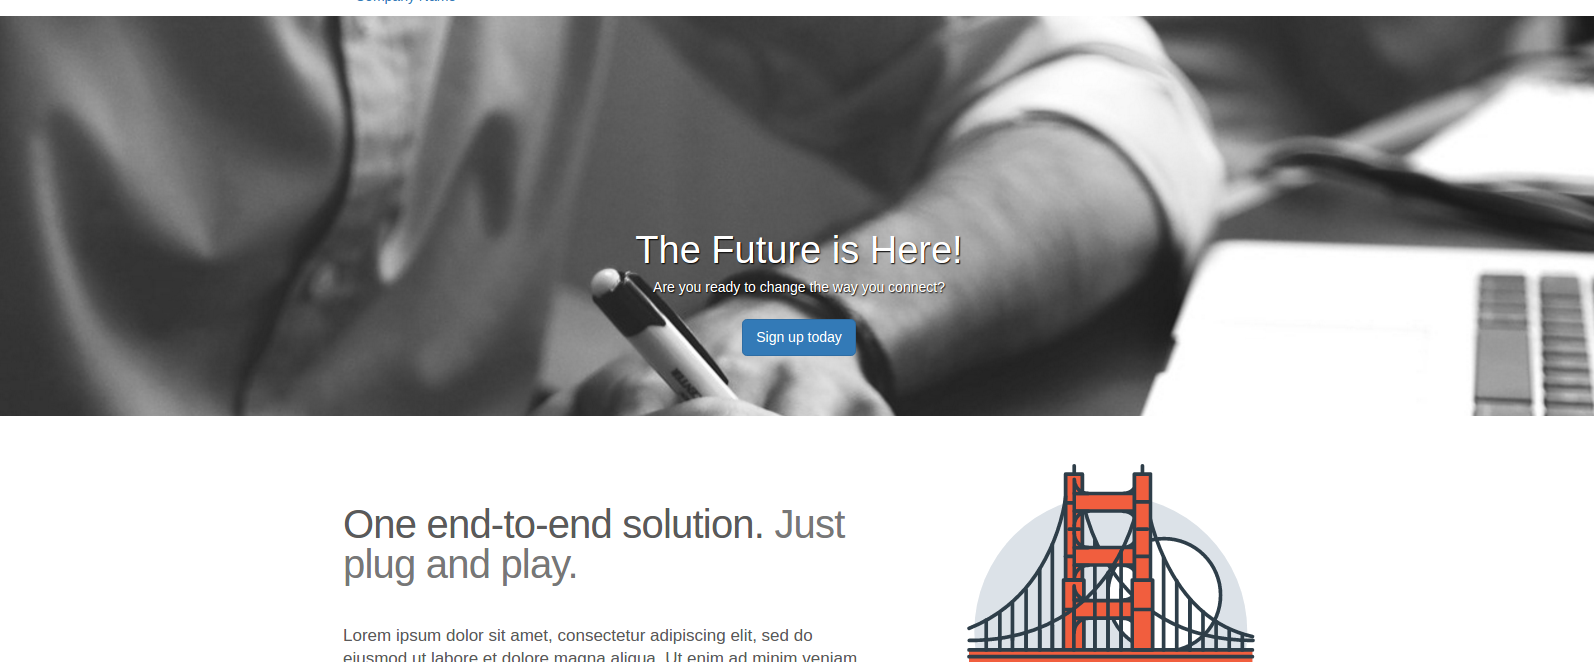
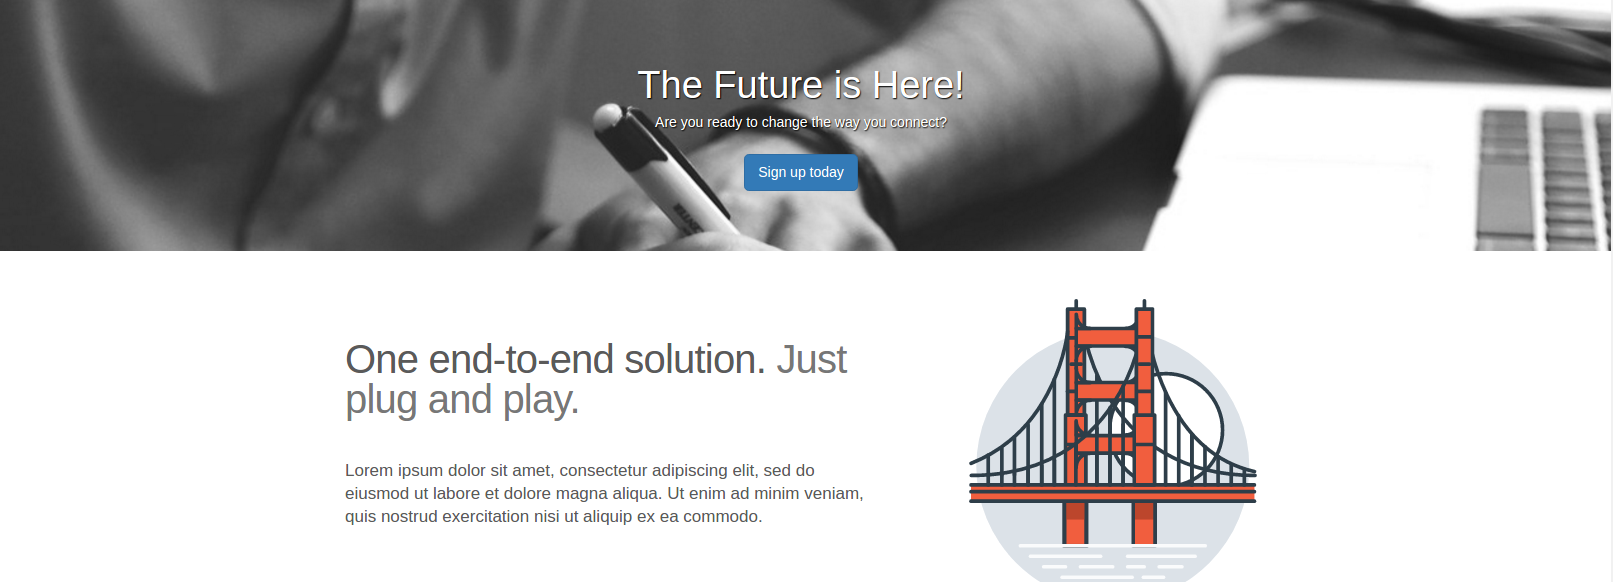
edited readme

diff --git a/index.html b/index.html
@@ -4,7 +4,7 @@
     <meta charset="utf-8">
     <meta http-equiv="X-UA-Compatible" content="IE=edge">
     <meta name="viewport" content="width=device-width, initial-scale=1">
-    <title>Div Soup Clean Up</title>
+    <title>Div Soup Company</title>
     <link href="css/bootstrap.min.css" rel="stylesheet">
     <link href="css/styles.css" rel="stylesheet">
     <meta name="udacity-grader" content="http://udacity.github.io/fend/lessons/L5/problem-set/09-div-soup-clean-up/tests.json">

diff --git a/README.md b/README.md
@@ -1,3 +1,7 @@
 # Mockup to Company Website
-[demo]()
+[demo](https://jbaek7023.github.io/CompanyWebsite/)
 ![sc](sc.png)
+
+#### Implementation 
+- Built website using Bootstrap. 
+- Cleaned Div Soup 
